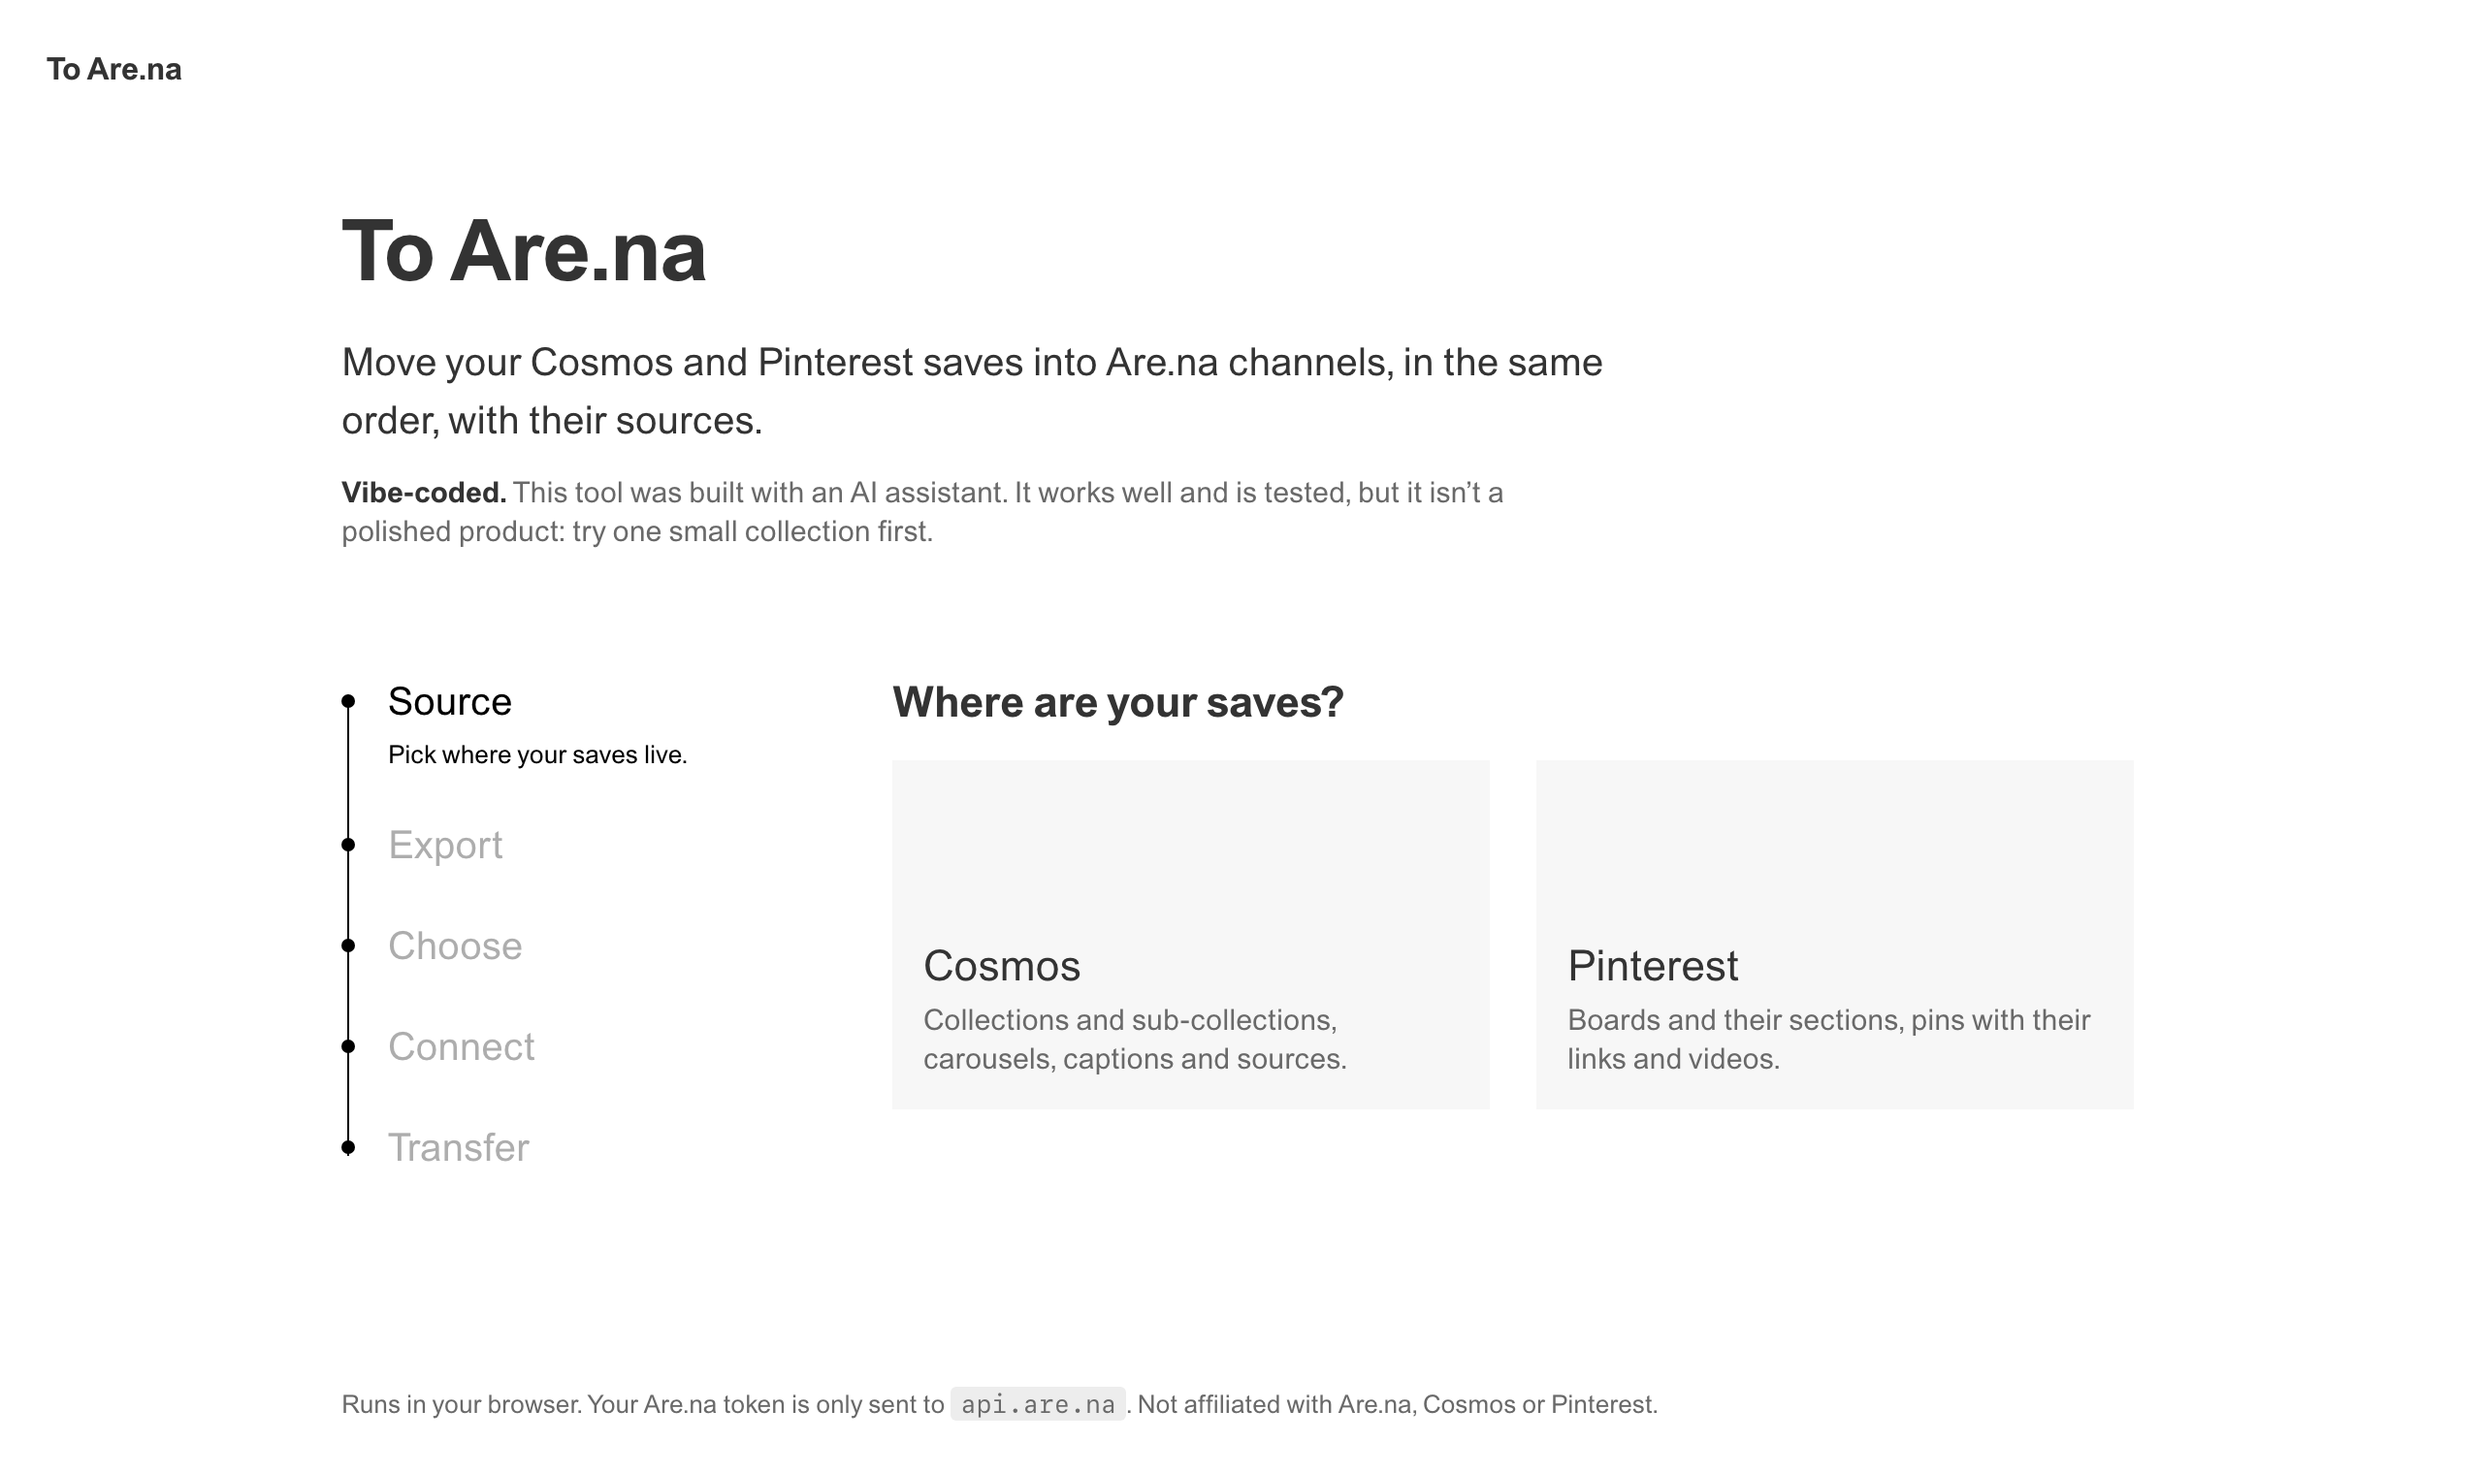
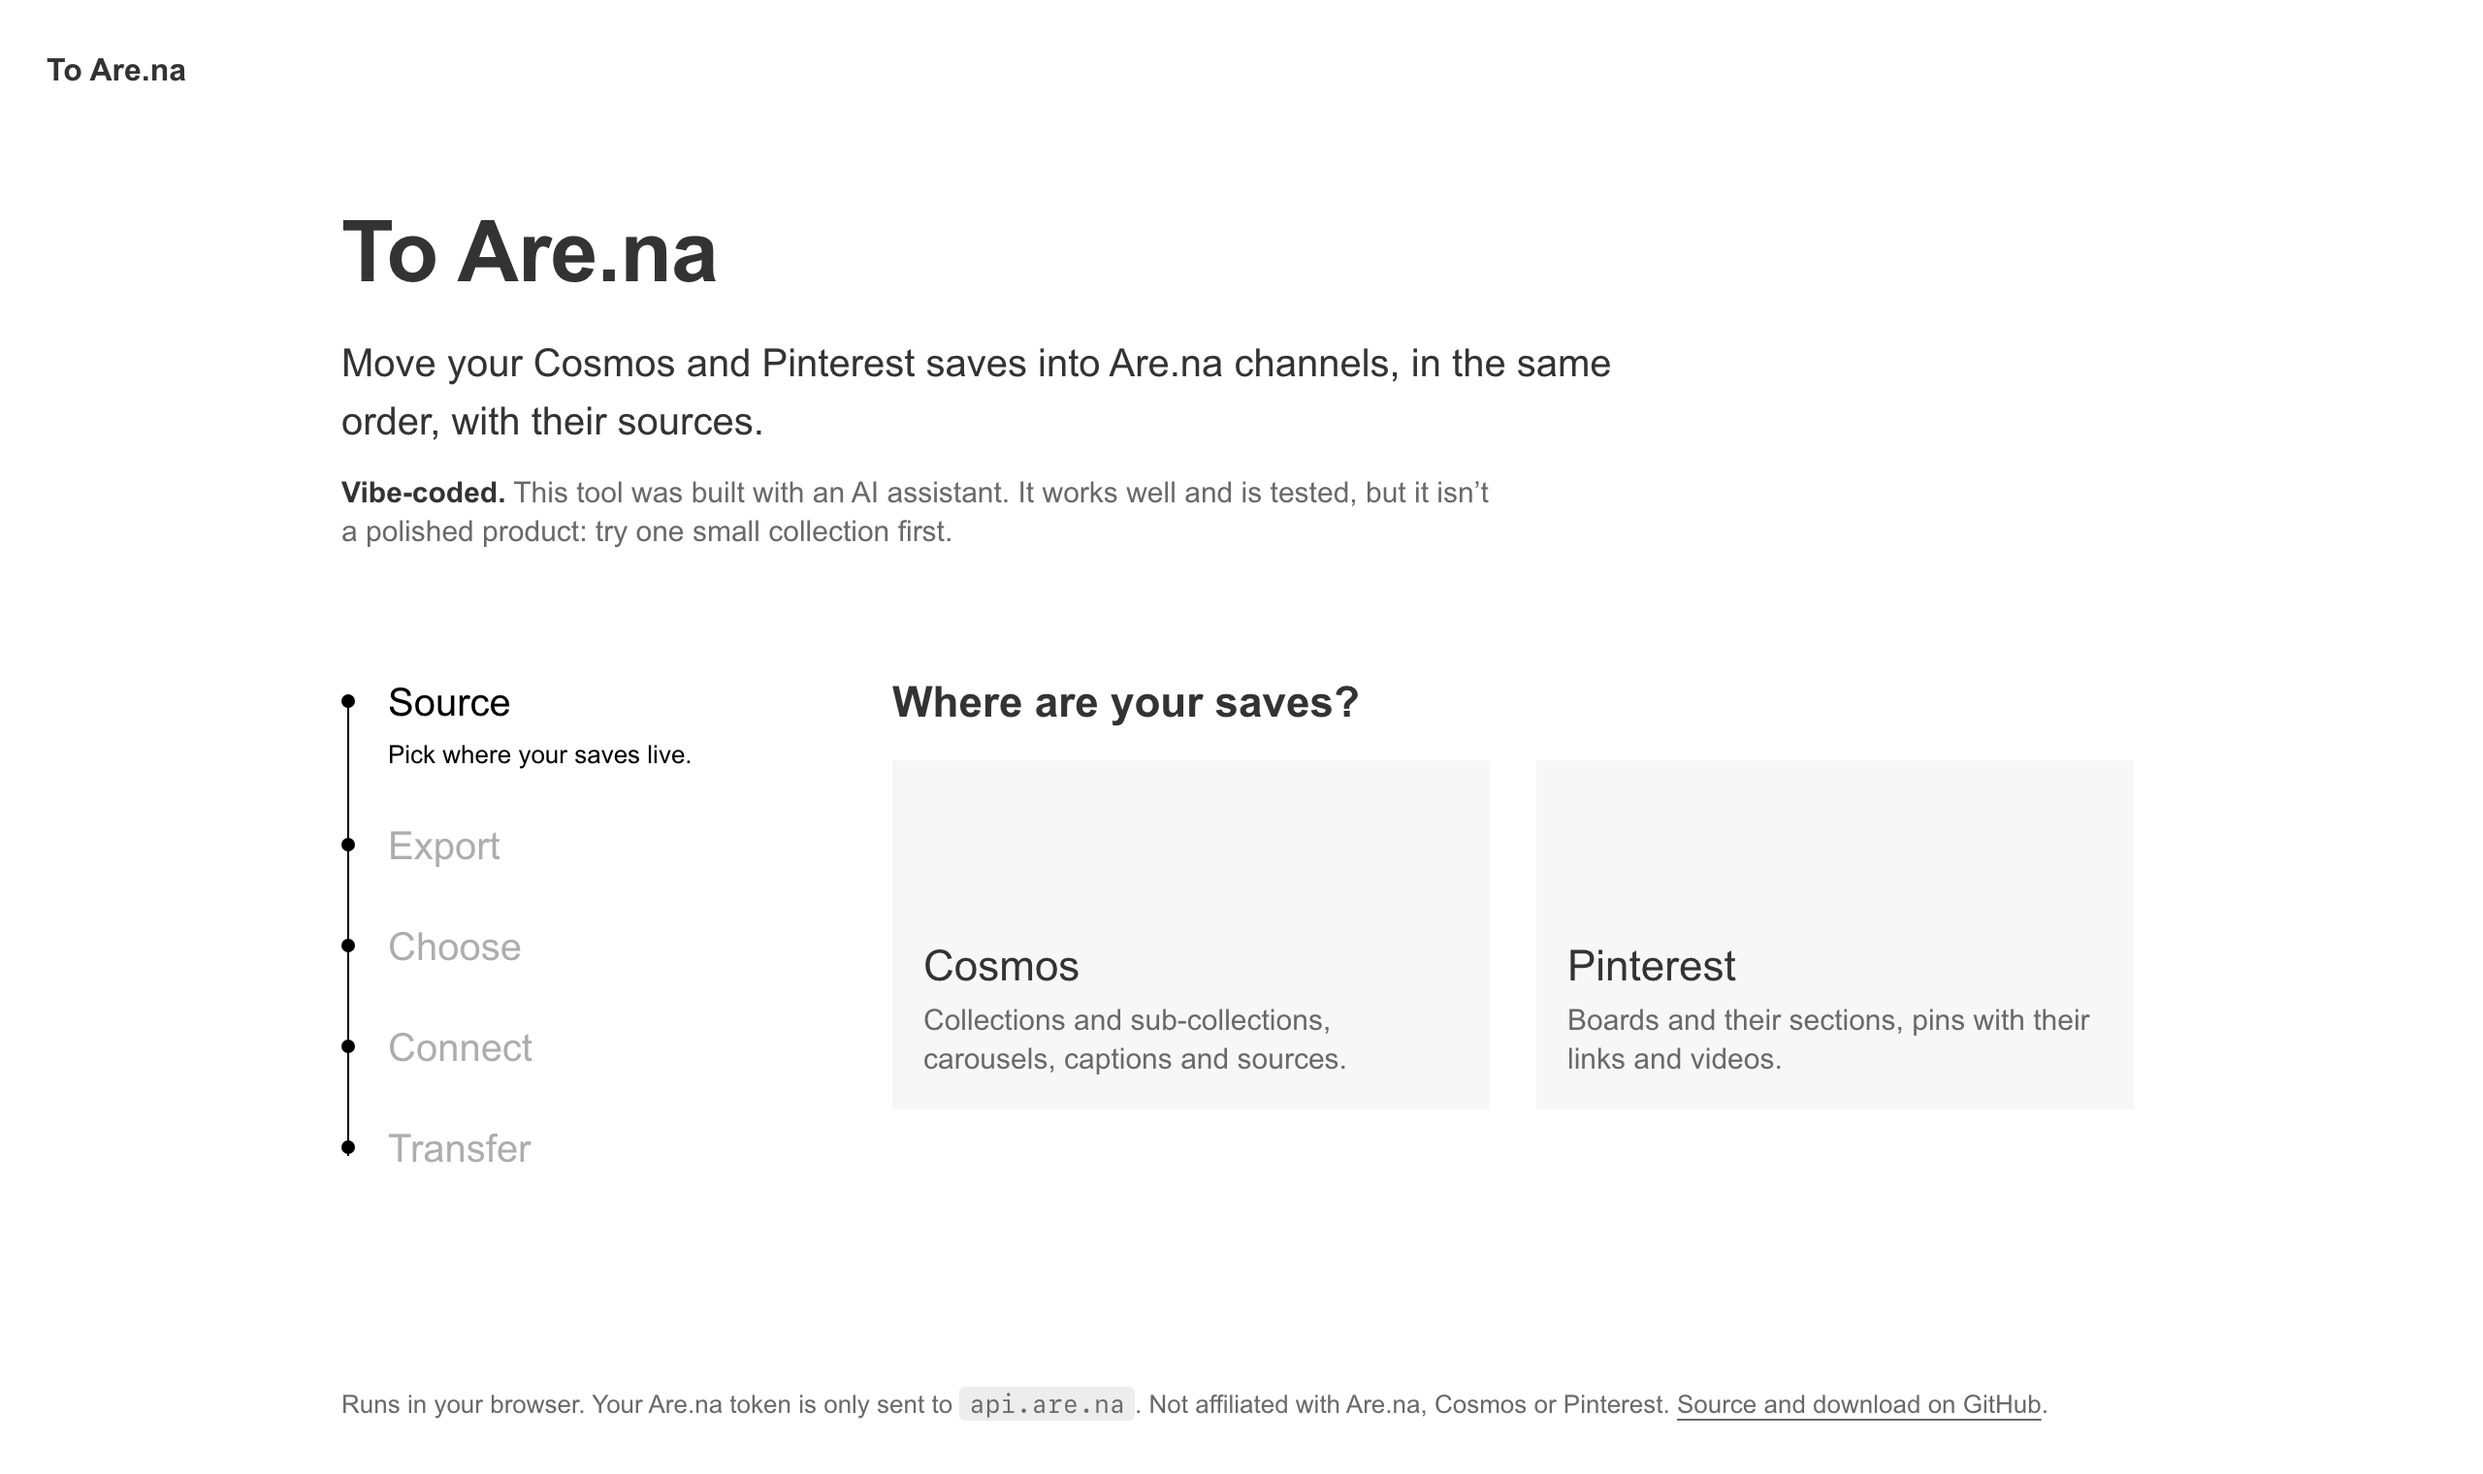
Use Arial everywhere
Drop ABC Areal so the whole project, design included, can be shared
freely under the MIT license.

diff --git a/styles.css b/styles.css
@@ -1,32 +1,8 @@
 /*
  * To Are.na · styles, after the “Are.na Style” design system: white, one typeface at 400,
- * grey for everything that isn't content, one dark blue for the main action. No shadow,
+ * grey for everything that isn't content, one dark blue for the main action. Set in Arial. No shadow,
  * no gradient, 3px corners on controls only.
  */
-
-@font-face {
-  font-family: 'ABC Areal';
-  src: url('fonts/ABCAreal-Regular.woff2') format('woff2');
-  font-weight: 400;
-  font-style: normal;
-  font-display: swap;
-}
-
-@font-face {
-  font-family: 'ABC Areal';
-  src: url('fonts/ABCAreal-RegularItalic.woff2') format('woff2');
-  font-weight: 400;
-  font-style: italic;
-  font-display: swap;
-}
-
-@font-face {
-  font-family: 'ABC Areal';
-  src: url('fonts/ABCAreal-Bold.woff2') format('woff2');
-  font-weight: 700;
-  font-style: normal;
-  font-display: swap;
-}
 
 :root {
   --surface: #ffffff;
@@ -42,7 +18,7 @@
   --on-accent: #ffffff;
   --focus-ring: var(--accent);
 
-  --font-sans: 'ABC Areal', 'Helvetica Neue', Helvetica, Arial, sans-serif;
+  --font-sans: Arial, 'Helvetica Neue', Helvetica, sans-serif;
   --font-mono: ui-monospace, 'SF Mono', Menlo, monospace;
 
   --space-1: 4px;

diff --git a/export-kit.js b/export-kit.js
@@ -40,7 +40,7 @@ function exportKit() {
     root.innerHTML = `
       <style>
         .box{width:min(360px,calc(100vw - 32px));box-sizing:border-box;padding:16px;background:#fff;color:#333;
-          border:1px solid #e5e5e5;border-radius:3px;font:400 15px/20px "ABC Areal","Helvetica Neue",Helvetica,Arial,sans-serif;
+          border:1px solid #e5e5e5;border-radius:3px;font:400 15px/20px Arial,"Helvetica Neue",Helvetica,sans-serif;
           -webkit-font-smoothing:antialiased}
         .head{display:flex;justify-content:space-between;gap:8px;margin-bottom:8px;font-weight:700;font-size:16px}
         .status{min-height:20px;word-break:break-word}

diff --git a/README.md b/README.md
@@ -114,12 +114,6 @@ node tests/import.test.mjs
 To publish a new version of the download, zip the files above (without `tests/`) in a folder named `To Are.na`,
 then attach `To-Arena.zip` to a new [release](https://github.com/TanguyCaruel/to-arena/releases).
 
-## Typeface
-
-The design follows an Are.na-style design system set in ABC Areal by Dinamo, a commercial typeface. Its files are
-not part of this repository; the page uses Helvetica Neue or Arial instead. If you hold a license, put
-`ABCAreal-Regular.woff2`, `ABCAreal-RegularItalic.woff2` and `ABCAreal-Bold.woff2` in a `fonts/` folder.
-
 ## License
 
-[MIT](LICENSE)
+Free and open source, under the [MIT license](LICENSE): use it, change it, share it.
